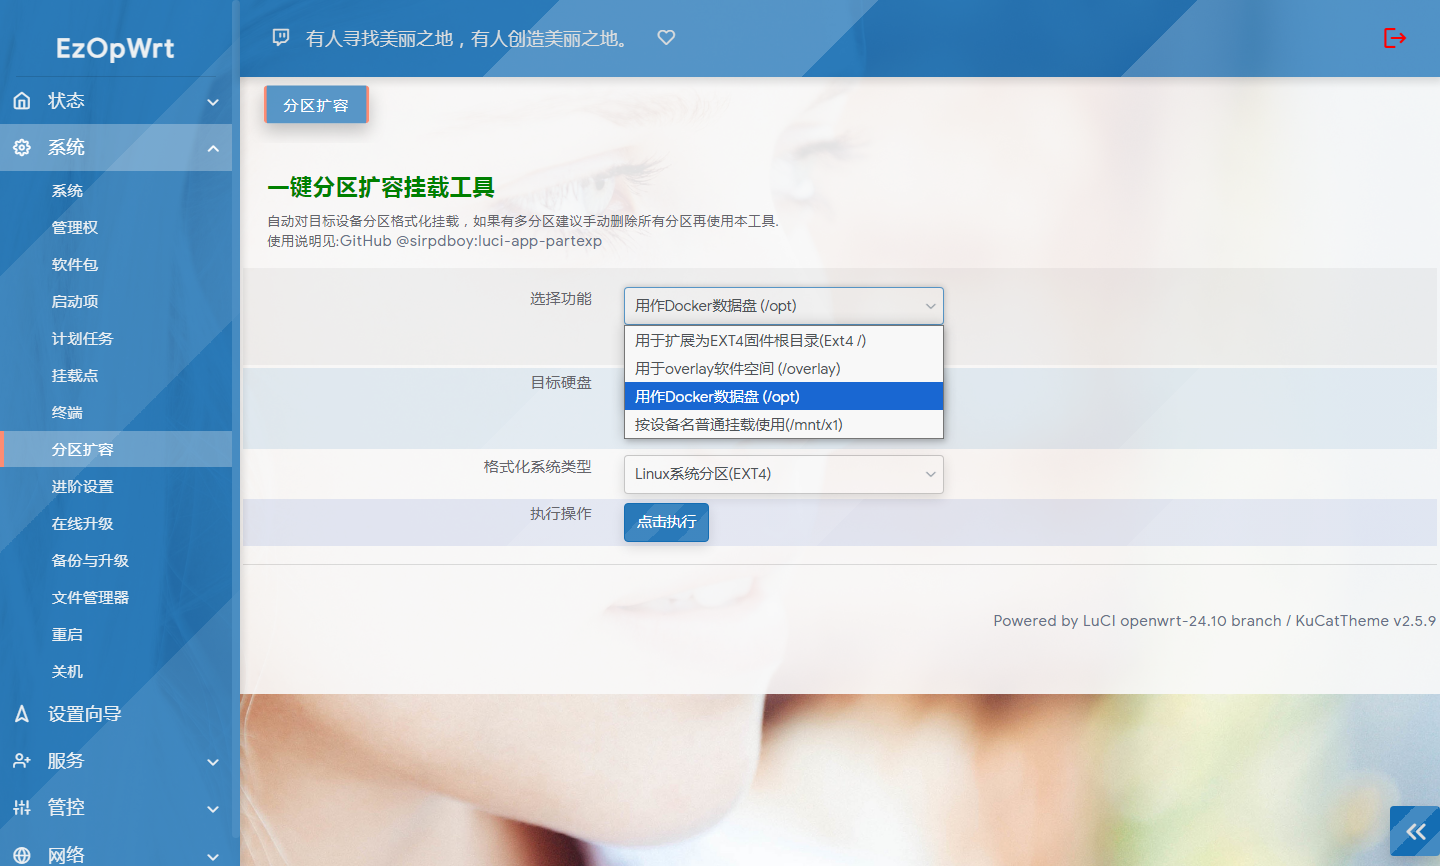
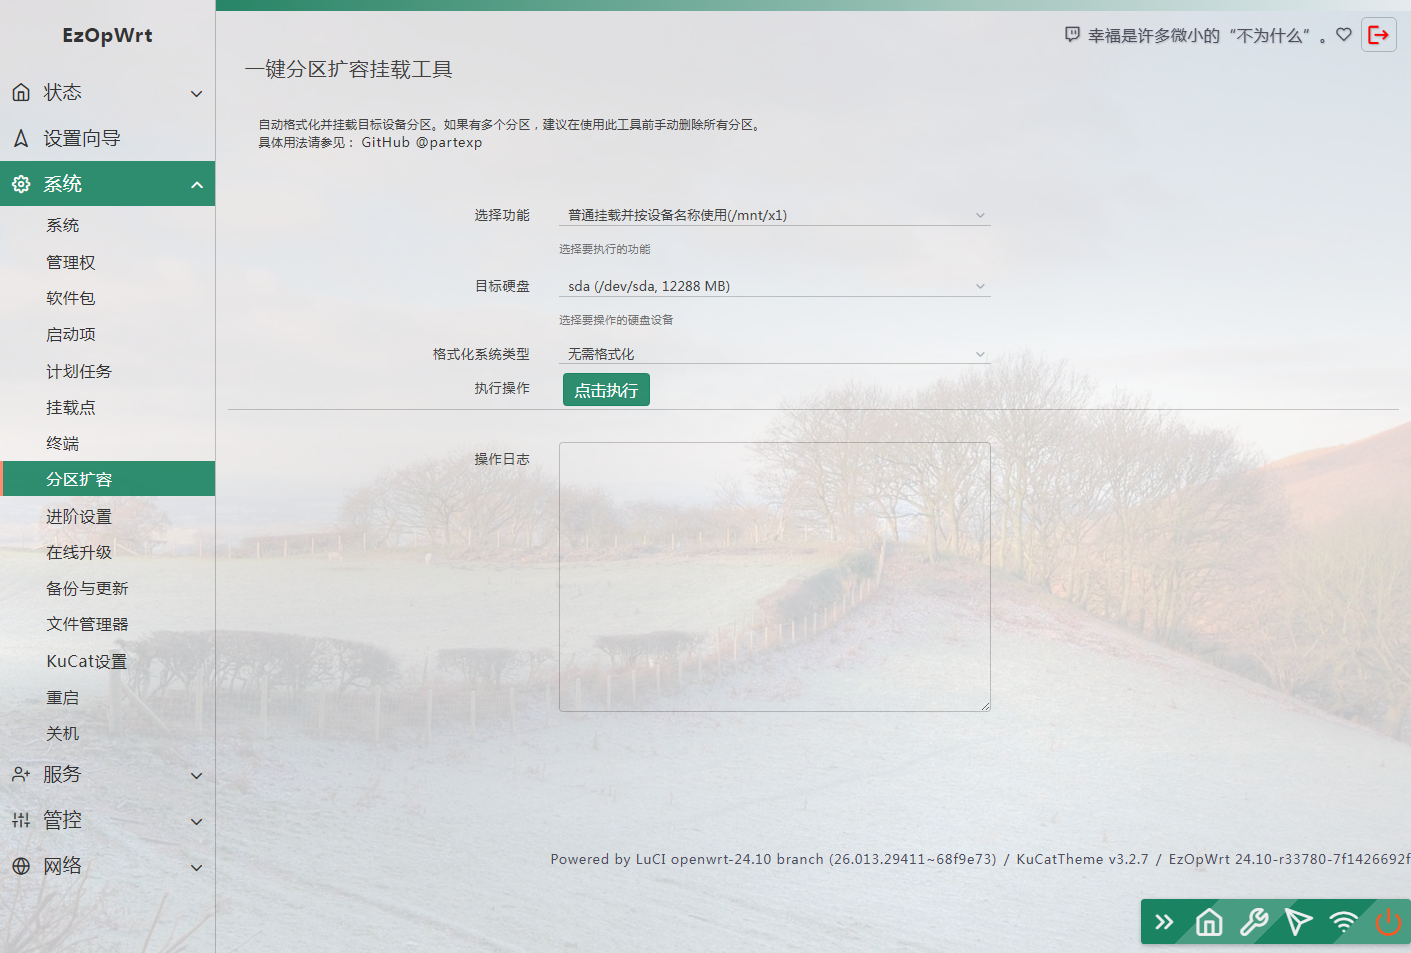
update 2026-01-14 12:39:04

diff --git a/luci-app-passwall/luasrc/view/passwall/global/status.htm b/luci-app-passwall/luasrc/view/passwall/global/status.htm
@@ -138,7 +138,7 @@ https://github.com/pure-css/pure/blob/master/LICENSE.md
 				</div>
 			</div>
 		</div>
-		<div class="pure-u-1-4 check" onclick="check_connect('baidu', 'https://www.baidu.com')">
+		<div class="pure-u-1-4 check" onclick="check_connect('baidu', 'https://www.baidu.com')" title="<%:TLS handshake test, latency for reference only%>">
 			<div class="block pure-g">
 				<div class="pure-u-1-3">
 					<div class="img-con">
@@ -150,7 +150,7 @@ https://github.com/pure-css/pure/blob/master/LICENSE.md
 				</div>
 			</div>
 		</div>
-		<div class="pure-u-1-4 check" onclick="check_connect('google', 'https://www.google.com/generate_204')">
+		<div class="pure-u-1-4 check" onclick="check_connect('google', 'https://www.google.com/generate_204')" title="<%:TLS handshake test, latency for reference only%>">
 			<div class="block pure-g">
 				<div class="pure-u-1-3">
 					<div class="img-con">
@@ -162,7 +162,7 @@ https://github.com/pure-css/pure/blob/master/LICENSE.md
 				</div>
 			</div>
 		</div>
-		<div class="pure-u-1-4 check" onclick="check_connect('github', 'https://github.com')">
+		<div class="pure-u-1-4 check" onclick="check_connect('github', 'https://github.com')" title="<%:TLS handshake test, latency for reference only%>">
 			<div class="block pure-g">
 				<div class="pure-u-1-3">
 					<div class="img-con">
@@ -174,7 +174,7 @@ https://github.com/pure-css/pure/blob/master/LICENSE.md
 				</div>
 			</div>
 		</div>
-		<div class="pure-u-1-4 check" onclick="check_connect('instagram', 'https://www.instagram.com')">
+		<div class="pure-u-1-4 check" onclick="check_connect('instagram', 'https://www.instagram.com')" title="<%:TLS handshake test, latency for reference only%>">
 			<div class="block pure-g">
 				<div class="pure-u-1-3">
 					<div class="img-con">

diff --git a/luci-app-passwall/luasrc/view/passwall/node_list/node_list.htm b/luci-app-passwall/luasrc/view/passwall/node_list/node_list.htm
@@ -909,7 +909,7 @@ table td, .table .td {
 						} else {
 							innerHTML = innerHTML.split("{{tcping}}").join('<span class="tcping_value" cbiid="{{id}}">---</span>');
 						}
-						innerHTML = innerHTML.split("{{url_test}}").join('<span class="ping"><a href="javascript:void(0)" onclick="javascript:urltest_node(\'{{id}}\', this)"><%:Test%></a></span>');
+						innerHTML = innerHTML.split("{{url_test}}").join('<span class="ping"><a href="javascript:void(0)" onclick="javascript:urltest_node(\'{{id}}\', this)" title="<%:TLS handshake test, latency for reference only%>"><%:Test%></a></span>');
 						innerHTML = innerHTML.split("{{id}}").join(o[".name"]);
 						innerHTML = innerHTML.split("{{group}}").join(o["group"] || "");
 						let node_remarks = get_remarks_name(o);

diff --git a/luci-app-partexp/README.md b/luci-app-partexp/README.md
@@ -20,15 +20,23 @@ Please read this page carefully, which includes precautions and instructions on 
 
 #### One click automatic formatting of partitions, expansion, and automatic mounting of plugins, designed specifically for OPENWRT to simplify the tedious operation of partition mounting for OPENWRT. This plugin requires a lot of effort from Sirpdboy to create and test. Please do not delete the creator's information!!
 
-## Version
 
-- Latest update version number: V1.3.1
-- Update Date: March 26, 2025
-- Update content:
-- Reorganize the partition expansion code and address some unreasonable areas.
-- Add the format for the target partition, which can be specified as ext4, ntfs, Btrfs, or no format.
-- When used as a root directory/or/overlay, it will be formatted in ext4 format.
-- At present, the testing on X86 machines is completely normal, and it has not been tested on other routing devices. Please submit the hard disk partition status and error message if there are any issues.
+### Update Date: January 14, 2026
+
+- Latest updated version number: V2.0.2
+- Update:
+- The newly upgraded JavaScript version supports the OpenWRT 25.12 version.
+- Add a progress bar display function and support for more partition formats.
+- Add more detailed reporting on log partition status.
+- Currently, testing on X86 machines is completely normal, but it has not been tested on other routing devices. If there are any issues, please provide the hard disk partition details and error messages.
+ 
+### Update Date: March 26, 2025
+- Latest updated version number: V1.3.1
+- Update:
+- Reorganize the partition expansion code to address some unreasonable aspects.
+- Add the format option for the target partition, allowing users to specify formatting options such as ext4, NTFS, Btrfs, or no formatting.
+- When used as the root directory or as /overlay, the partition will be automatically formatted as ext4.
+- Currently, testing on X86 machines is completely normal, but it has not been tested on other routing devices. If there are any issues, please provide the hard disk partition information and error messages.
 
  
  
@@ -68,11 +76,13 @@ Luci app parexp automatically obtains formatted partition expansion and automati
 
 ## interface
 
-![screenshots](./doc/partexp0.png)
-
 ![screenshots](./doc/partexp1.png)
 
 ![screenshots](./doc/partexp2.png)
+
+![screenshots](./doc/partexp3.png)
+
+![screenshots](./doc/partexp4.png)
 
 
 # My other project

diff --git a/luci-app-partexp/README_CN.md b/luci-app-partexp/README_CN.md
@@ -15,14 +15,11 @@
 
 ![screenshots](https://raw.githubusercontent.com/sirpdboy/openwrt/master/doc/说明1.jpg)
 
-
 [luci-app-partexp](https://github.com/sirpdboy/luci-app-partexp) 一键自动格式化分区、扩容、自动挂载插件
-
 
 请 **认真阅读完毕** 本页面，本页面包含注意事项和如何使用。
 
 ## 功能说明：
-
 
 #### 一键自动格式化分区、扩容、自动挂载插件，专为OPENWRT设计，简化OPENWRT在分区挂载上烦锁的操作。本插件是sirpdboy耗费大量精力制作测试，请勿删除制作者信息！！
 
@@ -39,8 +36,17 @@
 
 ## 版本
 
+### 更新日期：2026年1月14日
+
+- 最新更新版本号： V2.0.2
+- 更新内容：
+- 全新升级js版，支持openwrt25.12版本 。
+- 增加进度条显示功能和更多的分区格式。
+- 增加更详细的日志分区情况汇报。
+- 目前在X86的机器上测试完全正常，其它路由设备上未测试。有问题请提交硬盘分区情况和错误提示。
+ 
+### 更新日期：2025年3月26日
 - 最新更新版本号： V1.3.1
-- 更新日期：2025年3月26日
 - 更新内容：
 - 重新整理分区扩容代码，解决一些不合理的地方。
 - 加入对目标分区的格式，可以指定格式化为ext4,ntfs和Btrfs以及不格式化。
@@ -89,13 +95,13 @@
 
 ![screenshots](./doc/partexp2.png)
 
+![screenshots](./doc/partexp3.png)
 
+![screenshots](./doc/partexp4.png)
 
 ## 使用与授权相关说明
  
 - 本人开源的所有源码，任何引用需注明本处出处，如需修改二次发布必告之本人，未经许可不得做于任何商用用途。
-
-
 
 
 # My other project
